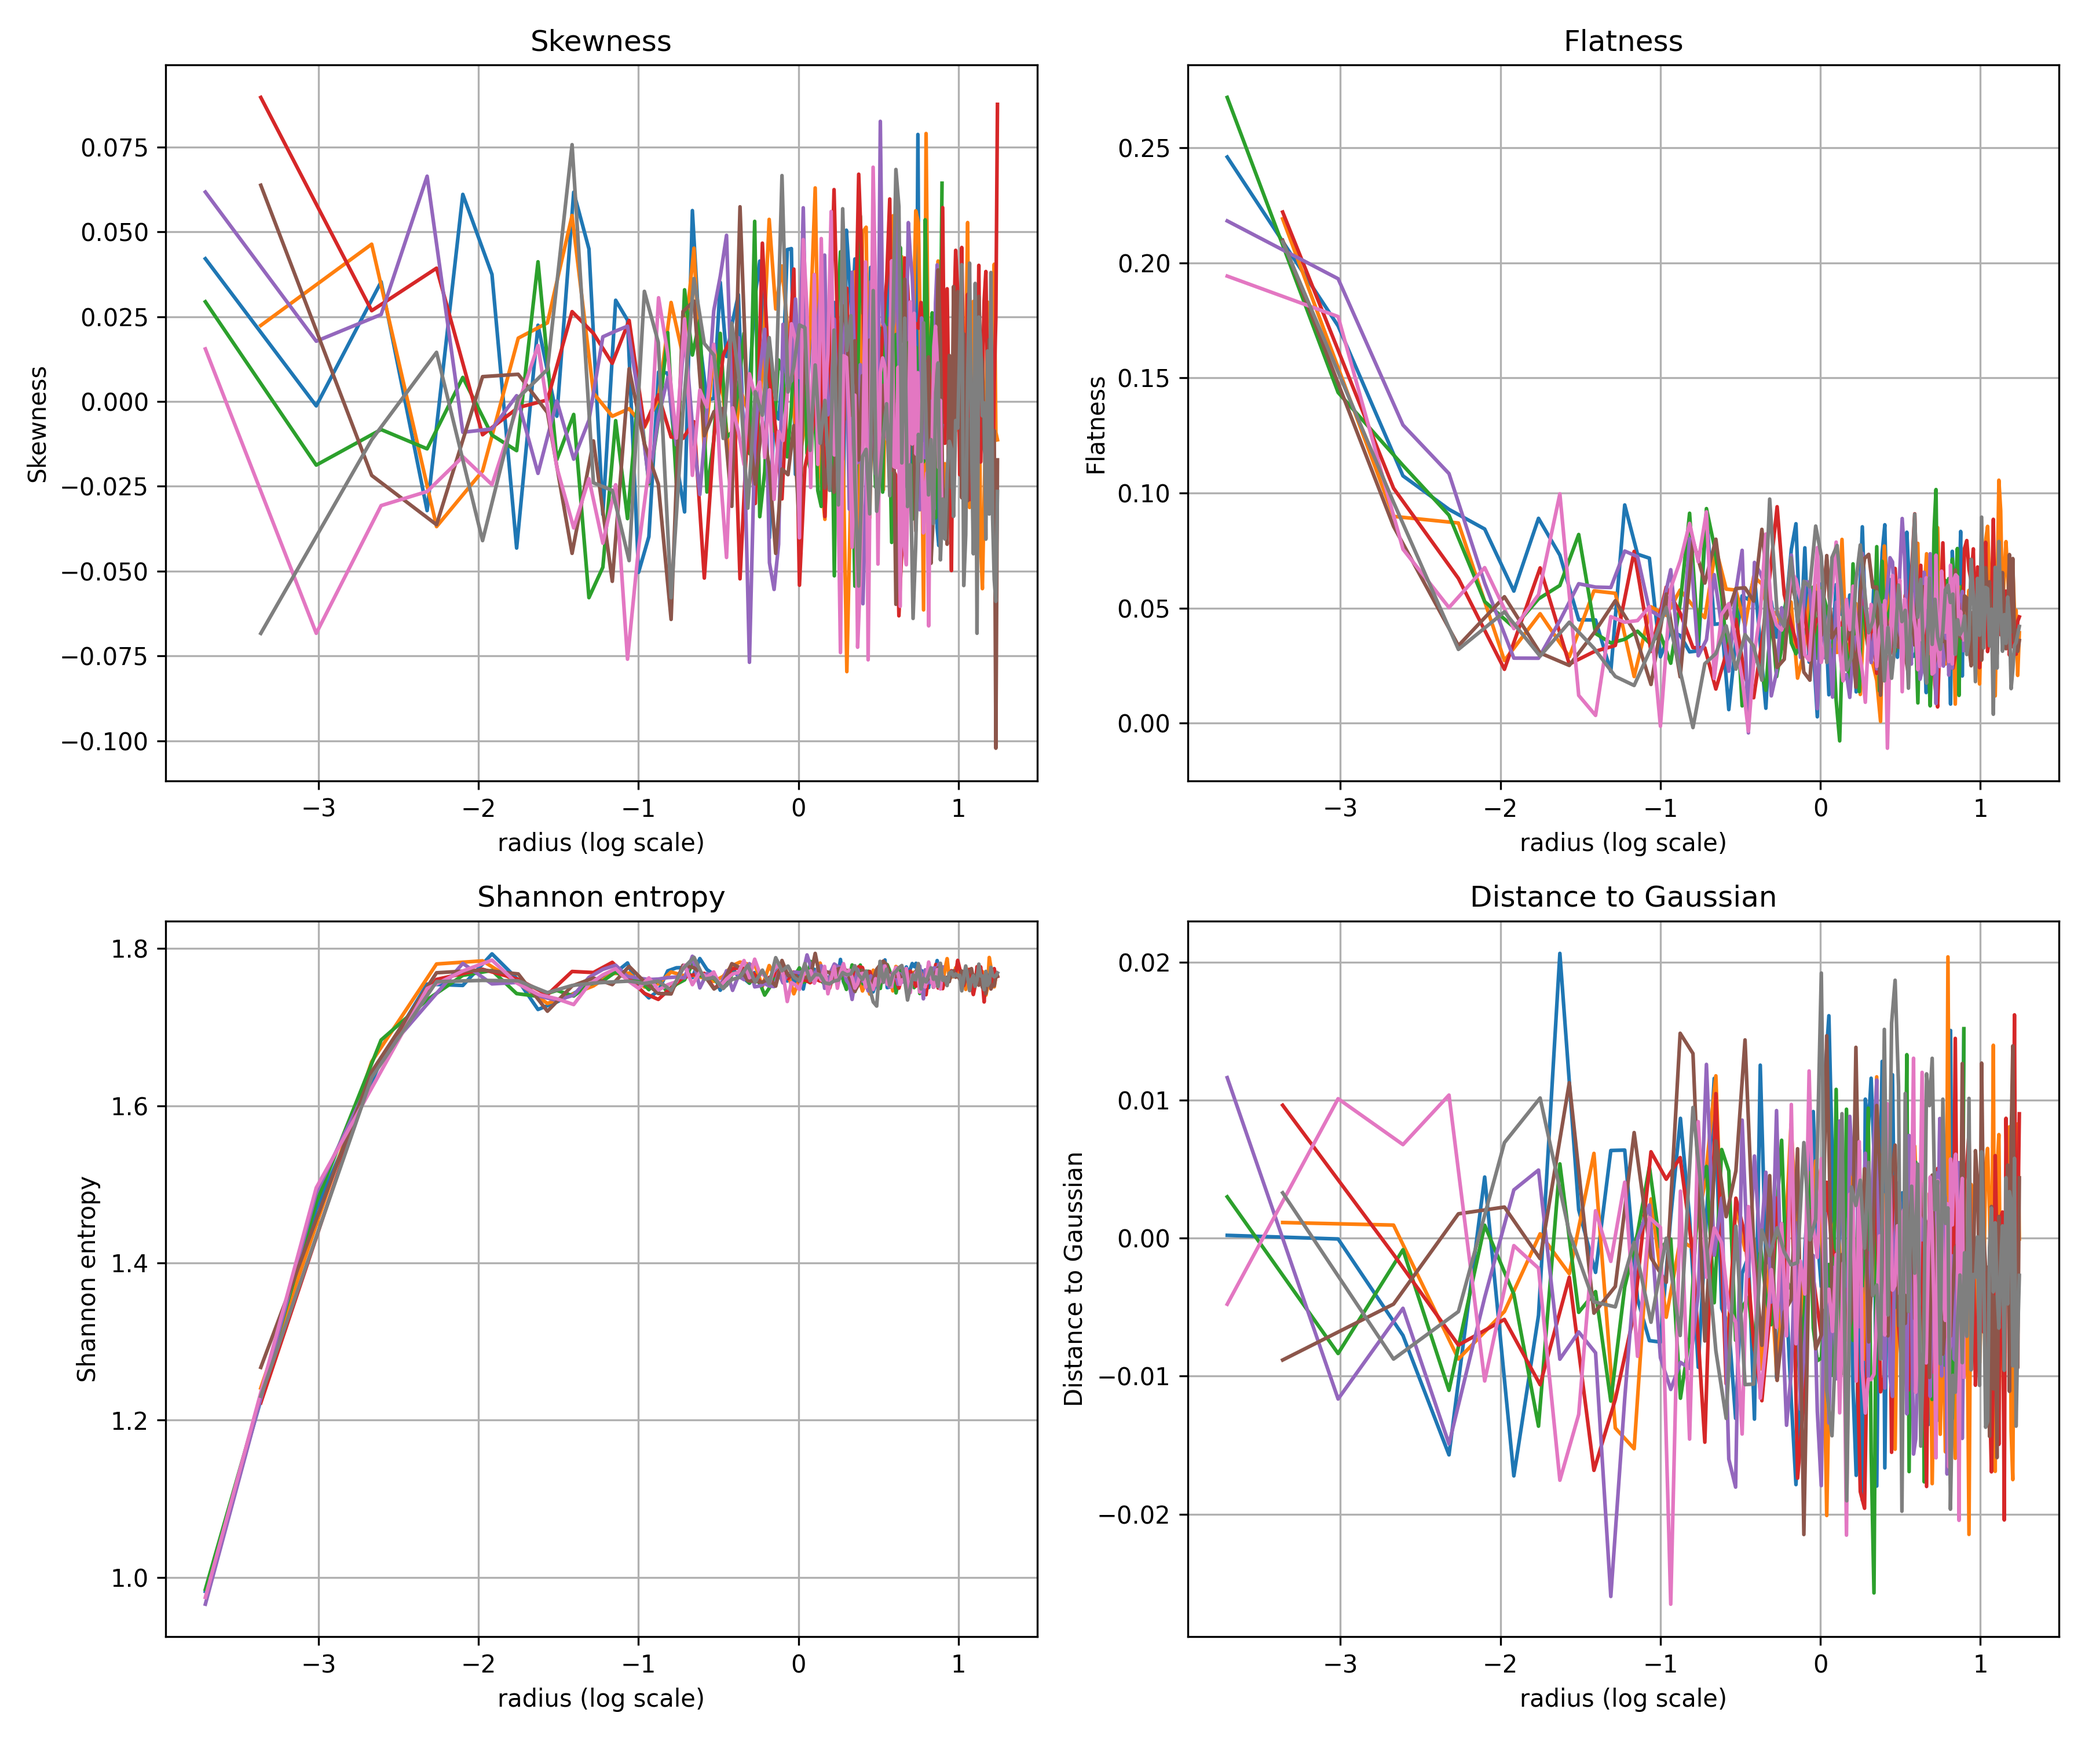
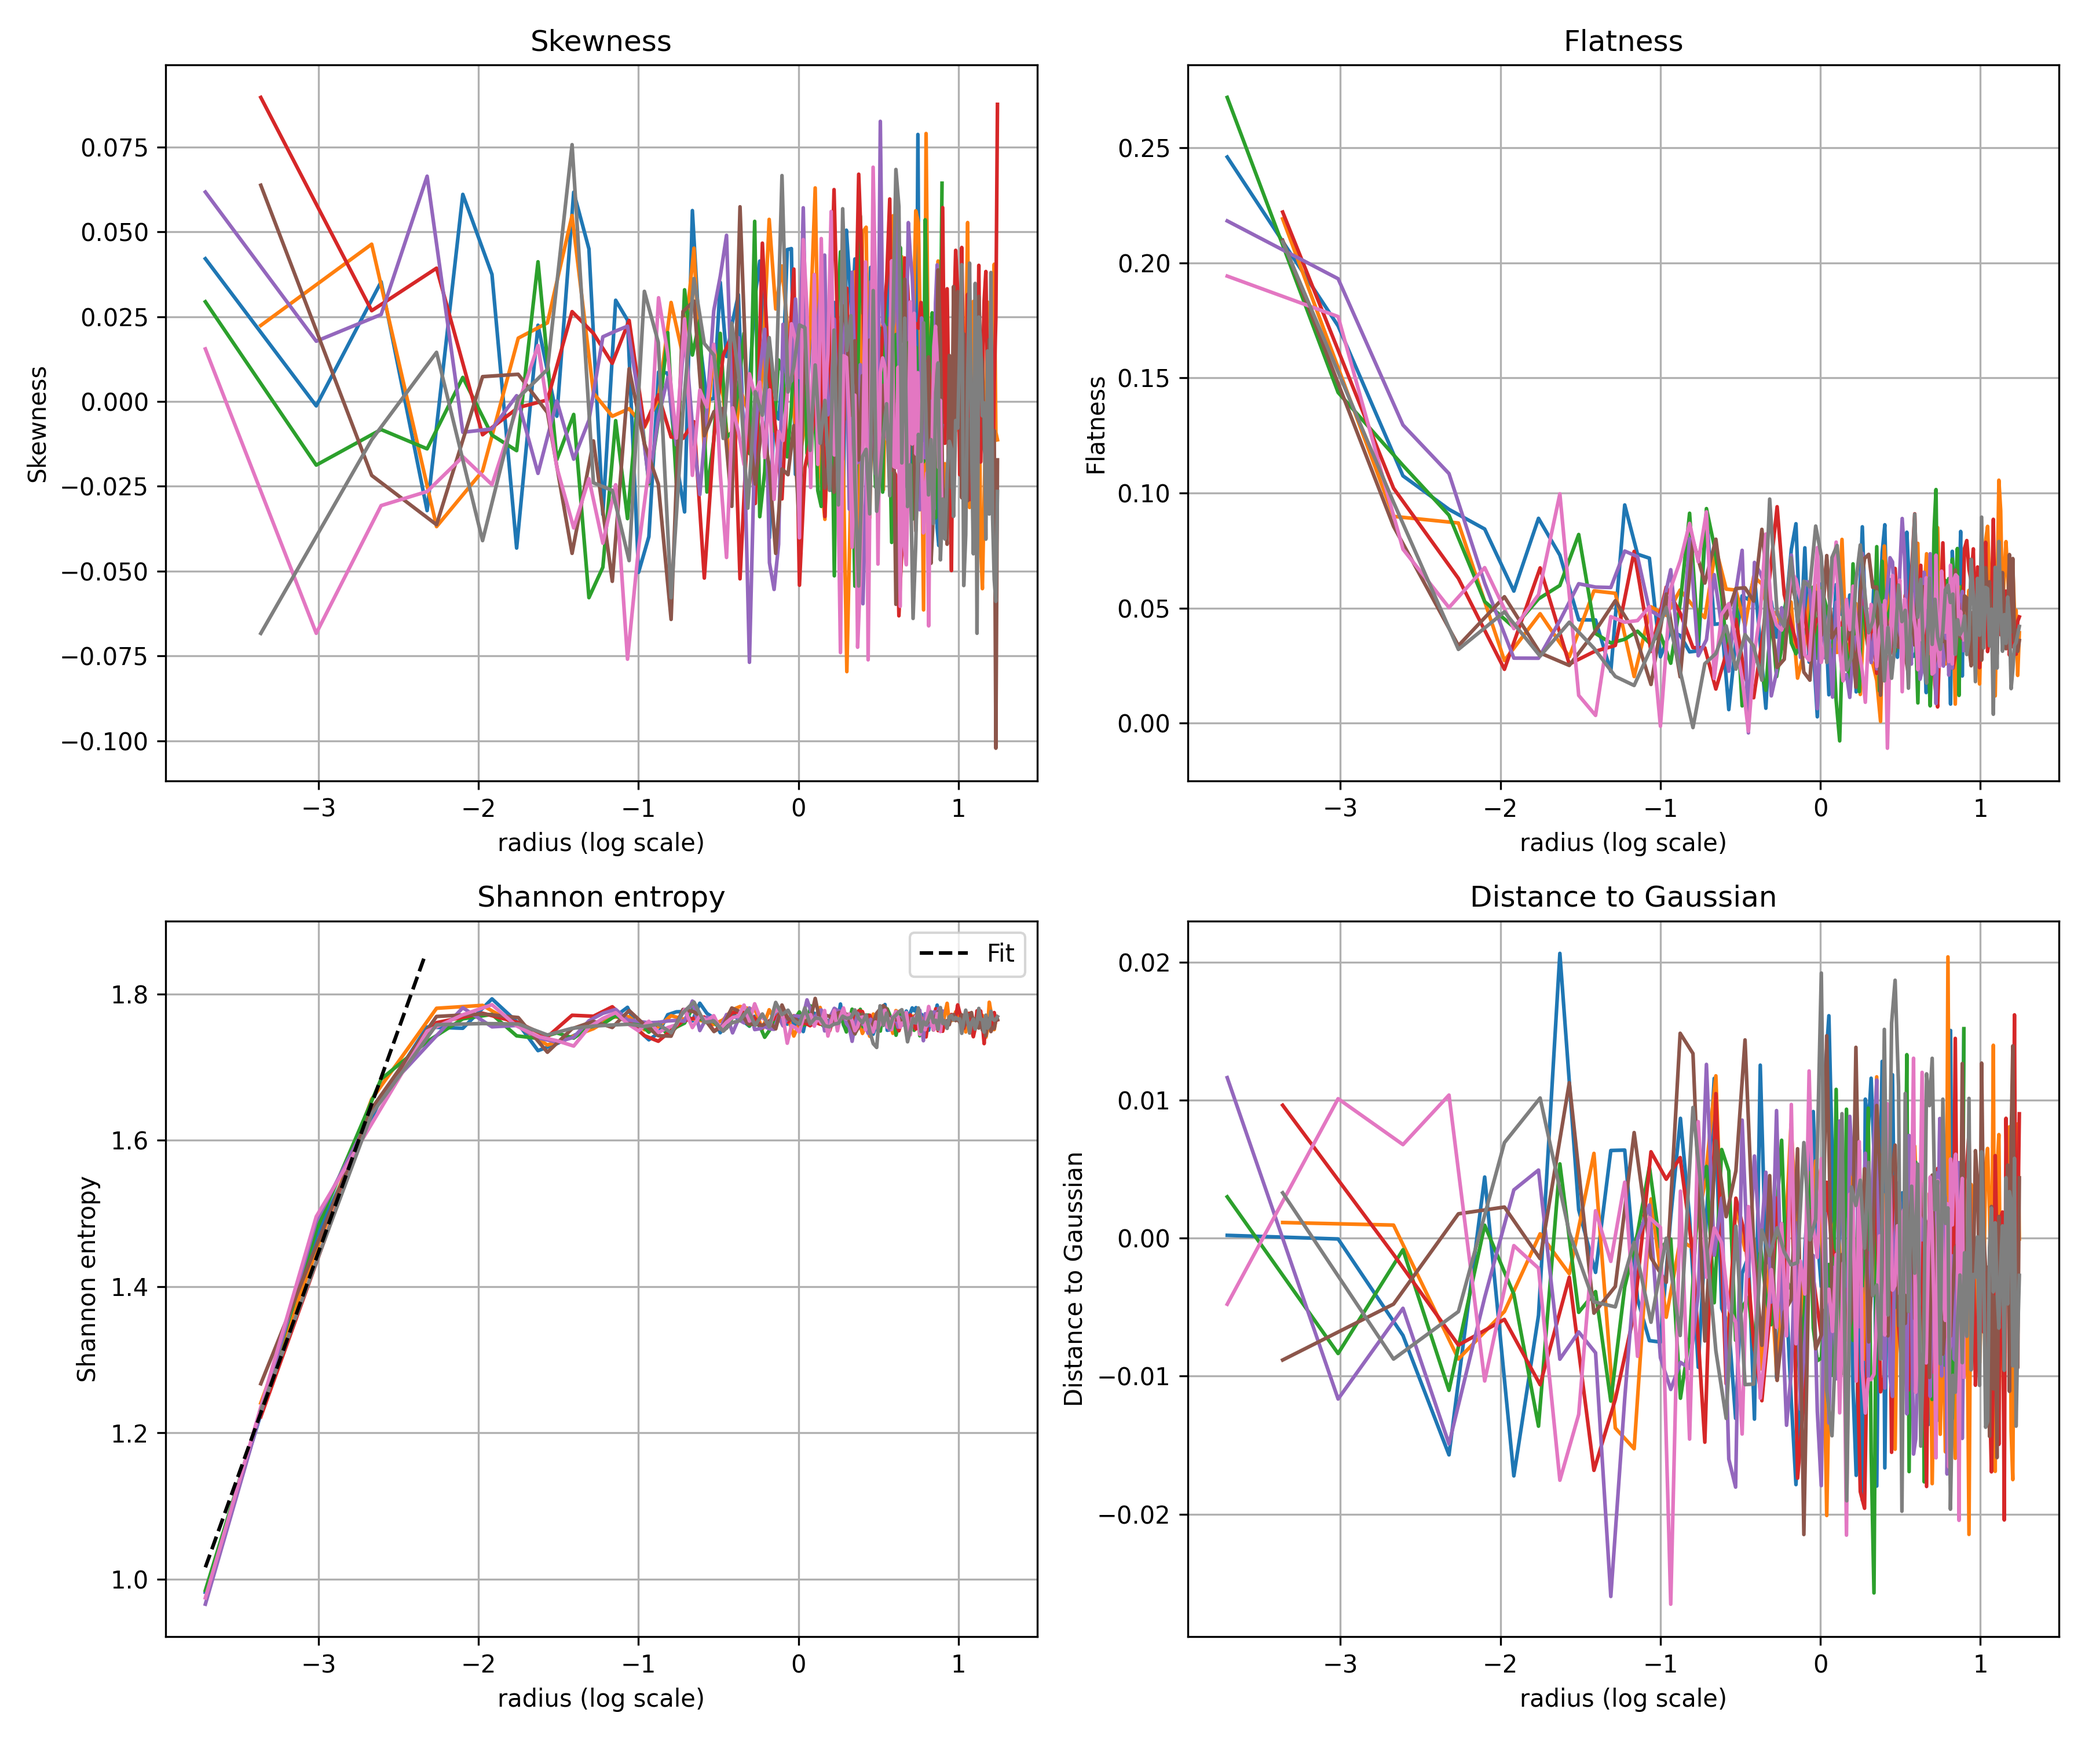
added the regression curve on the plots

Changed region(s): [[0.1244, 0.527, 0.4978, 0.806], [0.0933, 0.806, 0.1244, 0.899]]

diff --git a/Analyse_Spatial.py b/Analyse_Spatial.py
@@ -129,7 +129,7 @@ dist_gauss = np.mean(dist_gauss, axis=2)
 
 
 # %%
-save_values = True
+save_values = False
 
 # Saving the information measures
 if save_values:
@@ -146,8 +146,7 @@ if save_values:
 # %%
 
 # Loading the information measures from a file
-load_values = False
-scaleth = 40
+load_values = True
 scales = np.arange(-scaleth,scaleth+1,1)
 scale_dir = f'scales_1-{scaleth}/'
 
@@ -203,8 +202,6 @@ for k in range(n_angles):
 
 radius_angle = [np.log(elt) for elt in radius_angle]
 flatness_angle = [np.log((elt+3)/3) for elt in flatness_angle]
-
-
 
 # %%
 # Visualization of the information measures
@@ -284,12 +281,40 @@ titles = ['Skewness', 'Flatness', 'Shannon entropy', 'Distance to Gaussian']
 data_lists = [skewness_angle, flatness_angle, entropy_angle, dist_gauss_angle]
 
 for i, ax in enumerate(axes):
+
+    entropy_slopes = np.zeros(n_angles)
+    c_intercept = np.zeros(n_angles)
+
+    cutoff_radius = -1
+
     for k in range(n_angles):
         r = radius_angle[k]
         d = data_lists[i][k]
 
         m = min(r.size, d.size)
         ax.plot(r[:m], d[:m], linestyle='-')
+
+        if i == 2:  # Entropy plot
+
+            # applying cutoff radius
+            mask = r < cutoff_radius
+            r_fit = r[mask]
+            d_fit = d[mask]
+
+            if r.size > 1:
+                A = np.vstack([r_fit, np.ones(len(r_fit))]).T
+                m, c = np.linalg.lstsq(A, d_fit, rcond=None)[0]
+                entropy_slopes[k] = m
+                c_intercept[k] = c
+
+    if i == 2:
+        r_fit = np.linspace(min(radius_angle[0]), cutoff_radius, 100)
+        
+        m_slope = np.mean(entropy_slopes) if i == 2 else 0
+        c_intercept = np.mean(c_intercept)
+
+        ax.plot(r_fit, m_slope * r_fit + c_intercept, linestyle='--', color='black', label='Fit')
+        ax.legend()
     
     ax.set_title(titles[i])
     ax.set_xlabel('radius (log scale)' if np.any(np.isfinite(radius_angle)) else 'radius')
